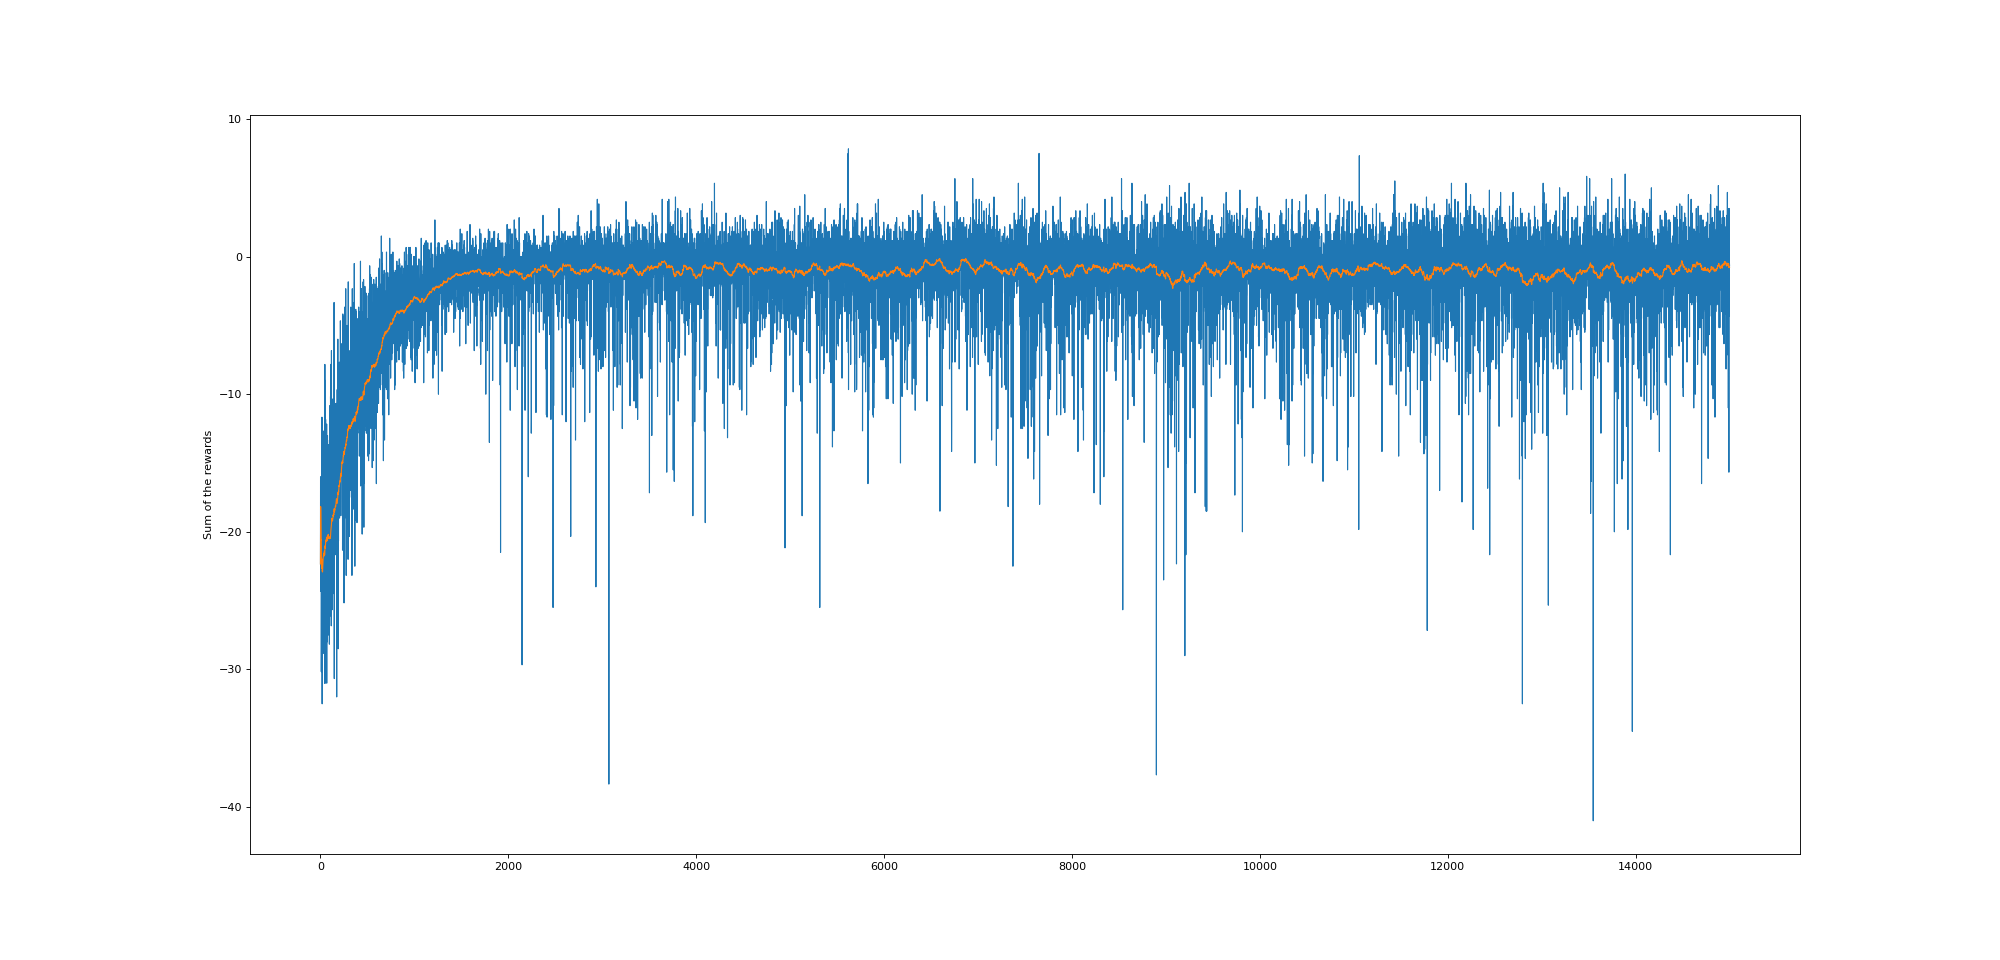
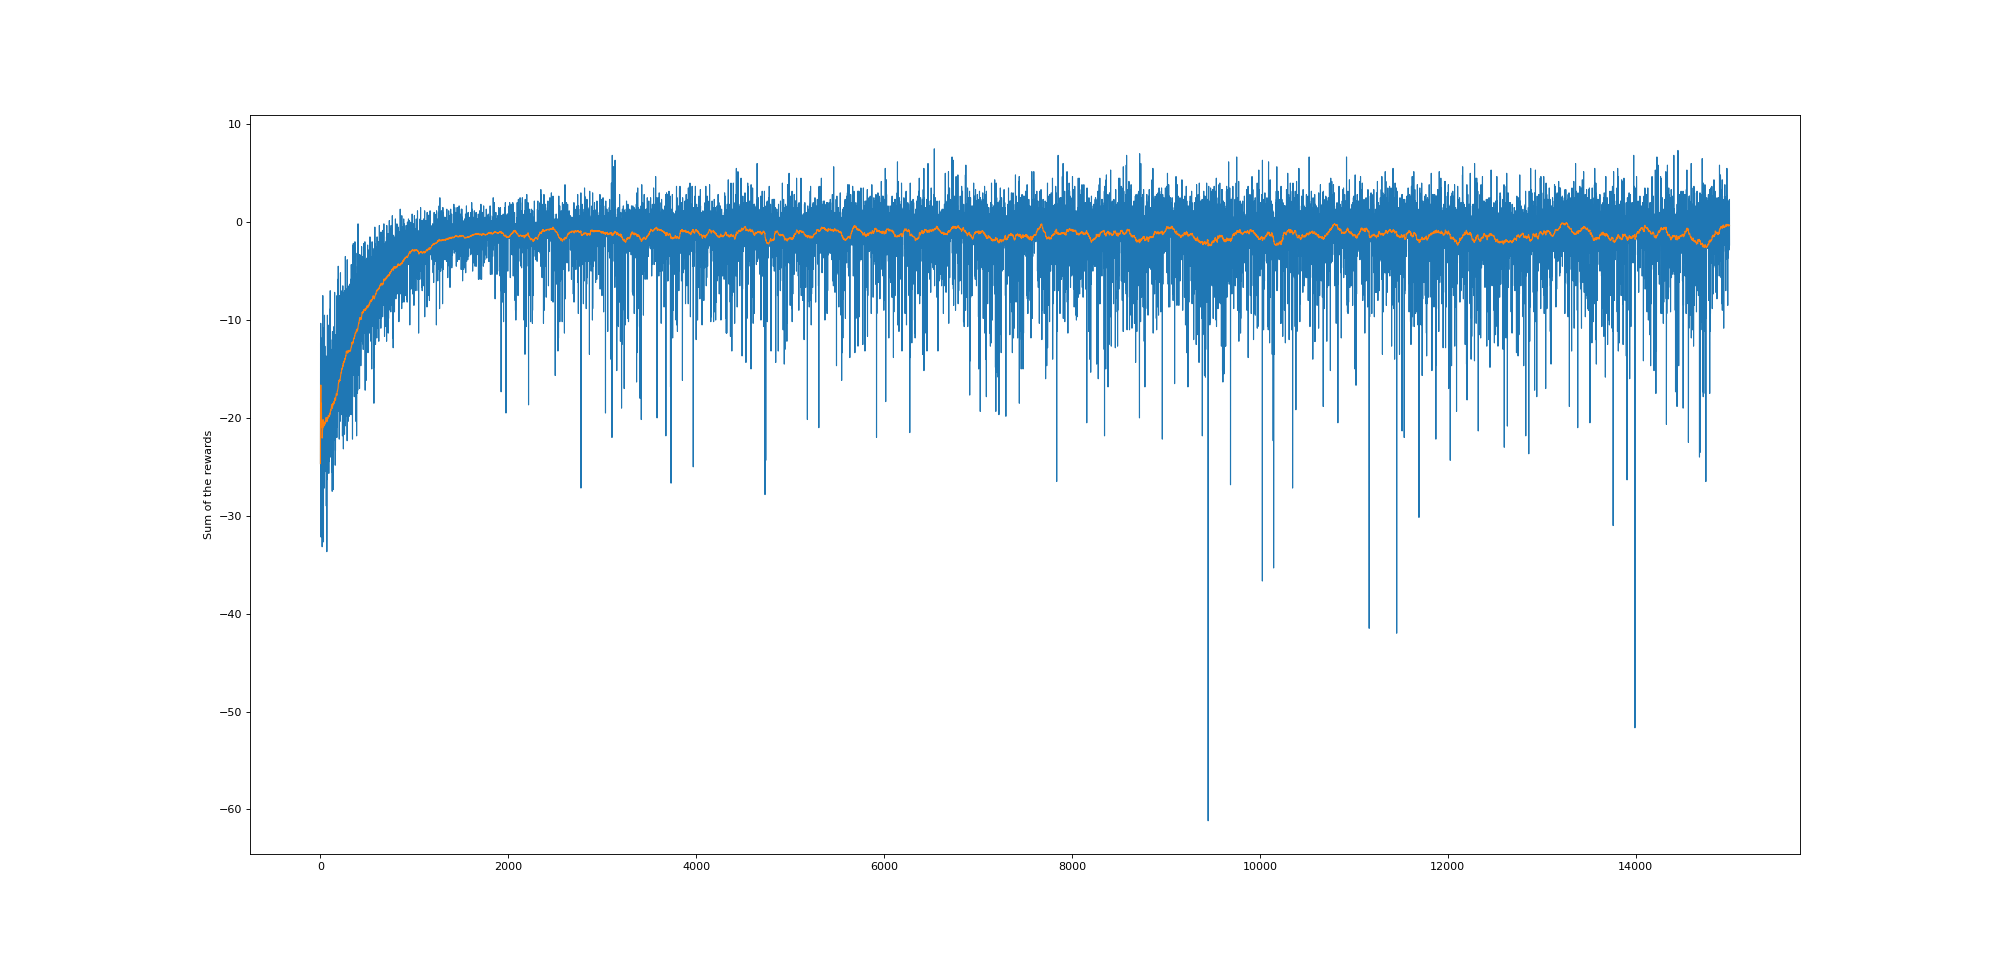
DDQN cooperating

Changed region(s): [[0.155, 0.1562, 0.868, 0.7188]]

diff --git a/python/MesaModel.py b/python/MesaModel.py
@@ -110,7 +110,7 @@ class MesaAgent(Agent):
 
         for n in self.model.grid.get_neighbors(self.pos, True, radius=5):
             if(n != self):
-                neighbor_observation = [n.pos[0]+1, n.pos[1]+1, n.destination[0]+1, n.destination[1]+1]
+                neighbor_observation = [n.pos[0]+1, n.pos[1]+1, n.destination[0]+1, n.destination[1]+1, int(n.moved)+1]
                 if(len(observation)<self.model.decision_maker.observation_space.shape[0]):
                     observation += neighbor_observation
 

diff --git a/python/REINFORCEAgent.py b/python/REINFORCEAgent.py
@@ -92,7 +92,7 @@ class REINFORCEAgent():
 
     def choose_action(self, ob, testing):
         action_probs = self.actor(torch.tensor(ob)).detach().numpy()
-        print(action_probs, ob)
+        #print(action_probs, ob)
         if(testing):
             action = np.argmax(action_probs)
         else:

diff --git a/python/hyperParams.py b/python/hyperParams.py
@@ -76,7 +76,7 @@ class REINFORCEHyperParams :
 
 
 action_space = DiscreteActionSpace(5)
-observation_space = DiscreteObservationSpace(8)
+observation_space = DiscreteObservationSpace(9)
 num_agents = 6
 width=4
 height=7
